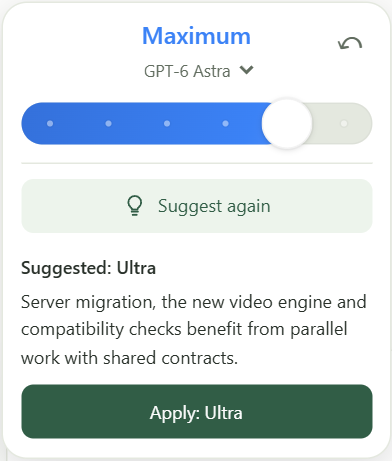
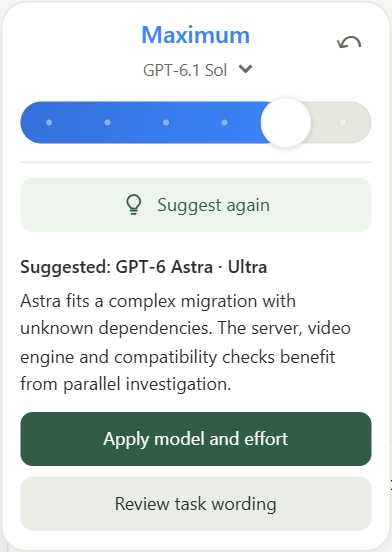
Document model choice and task wording review in 0.8.100 [skip ci]

diff --git a/README.en.md b/README.en.md
@@ -3,7 +3,7 @@
   <h1>Codex Local</h1>
   <p>Your Codex — on your PC, in a browser and on your phone.</p>
   <p><strong>Windows x64 · local panel · web access and PWA</strong></p>
-  <p><a href="https://github.com/DenisG1302/codex-local/releases/tag/installer-v0.8.99"><strong>Download installer</strong></a> · <a href="https://github.com/DenisG1302/codex-local/releases">Release notes</a> · <a href="README.md">Русский</a></p>
+  <p><a href="https://github.com/DenisG1302/codex-local/releases/tag/installer-v0.8.100"><strong>Download installer</strong></a> · <a href="https://github.com/DenisG1302/codex-local/releases">Release notes</a> · <a href="README.md">Русский</a></p>
 </div>
 
 ---
@@ -34,7 +34,7 @@ The interface is available in English and Russian. Choose your language in Setti
 | Quick commands | Send a saved reply with one click; add your own choices and remove ones you do not need |
 | Rules with Codex | Edit global instructions or a project’s AGENTS.md; review the assistant’s proposed changes before applying them |
 | Model and speed | Choose a model, reasoning level and available speed, including Ultrafast; change the current task's speed |
-| Reasoning advisor | A suggestion based on task complexity and chat context, including supported Max and Ultra, with an explanation and explicit application |
+| Task preparation | Choice between Sol and Astra, reasoning advice, and clearer task wording to review before applying |
 | Message queue | Edit text, attachments and model settings for each waiting message, and rearrange their order |
 | Your own web access | Use the panel in a local browser, over your network or through your own HTTPS domain |
 | Phone and PWA | Access chats from your phone and add the panel to your home screen |
@@ -83,11 +83,15 @@ Listen to final answers or include progress updates; tables are skipped. The spe
 
 In Settings → Instructions, edit global rules or a project’s AGENTS.md. The Codex assistant changes and organizes rules at your request. Review the proposed changes and select Apply. New rules take effect in new chats.
 
-## Reasoning advice for your task
+## Task preparation advisor
 
-Draft a task and choose “Suggest for this task” in the model menu. The advisor considers the chat context, explains a suitable effort, including Max or Ultra when supported, and applies it when you choose Apply.
+Draft a task and choose “Suggest for this task” in the model menu. The advisor suggests GPT-6.1 Sol or GPT-6 Astra, a suitable reasoning effort including Max and Ultra, and clearer wording with questions about missing details.
 
-![Reasoning advice with an explanation and an Apply button](assets/screenshots/en/reasoning-advisor.png)
+Apply the model and effort separately from the text. Review and edit the proposed wording, and restore your original text whenever needed.
+
+![Suggested model and reasoning effort](assets/screenshots/en/reasoning-advisor.png)
+
+![Reviewing and editing task wording](assets/screenshots/en/task-wording.png)
 
 ## Model, fast mode and message queue
 
